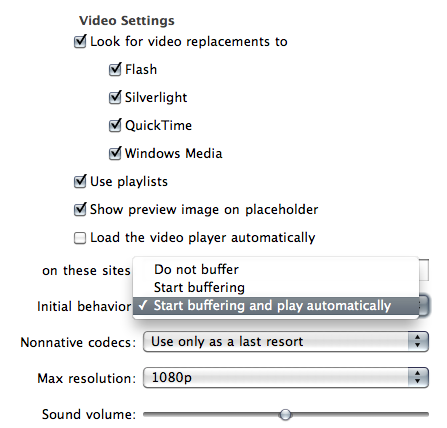
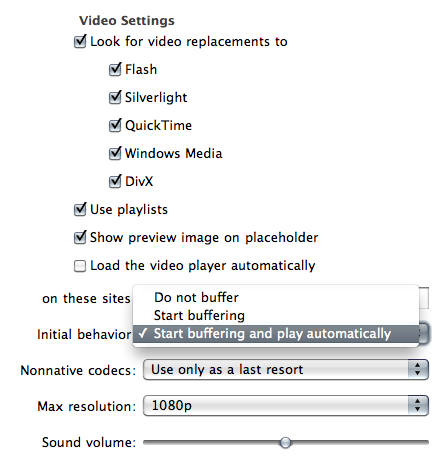
v1.7.6/1.4.6

diff --git a/clicktoplugin/index.html b/clicktoplugin/index.html
@@ -21,25 +21,28 @@
 <div id="download" class="nav">
 <b>Download links</b>
 <ul>
-<li><a href="http://github.com/downloads/hoyois/safariextensions/ClickToPlugin-1.4.5.safariextz">Download ClickToPlugin 1.4.5</a></li>
-<li><a href="http://github.com/downloads/hoyois/safariextensions/ClickToPlugin.fr-1.4.5.safariextz">Télécharger ClickToPlugin 1.4.5 en français</a></li>
+<li><a href="http://github.com/downloads/hoyois/safariextensions/ClickToPlugin-1.4.6.safariextz">Download ClickToPlugin 1.4.6</a></li>
+<li><a href="http://github.com/downloads/hoyois/safariextensions/ClickToPlugin.fr-1.4.6.safariextz">Télécharger ClickToPlugin 1.4.6 en français</a></li>
 <li><a href="http://github.com/downloads/hoyois/safariextensions/ClickToPlugin.ru-1.4.5.safariextz">Скачать ClickToPlugin 1.4.5 по-русски</a></li>
 </ul>
 </div>
 
-<div class="warning"><p>ClickToPlugin 1.4.5 requires Safari 5.0.1 or newer.</p></div>
+<div class="warning"><p>ClickToPlugin 1.4.6 requires Safari 5.0.1 or newer.</p></div>
 
 <div id="contents" class="nav">
 <b>Jump to</b>
 <ul>
 	<li><a href="#features">Features</a></li>
 	<li><a href="#settings">Settings</a></li>
+	<li><a href="#faq_issues">FAQ &amp; Common Issues</a></li>
 	<li><a href="#changelog">Release Notes</a></li>
 </ul>
 </div>
 
 <div id="intro">
-<p>This is an extension of my ClickToFlash extension that can deal with all types of embedded content. Feel free to <a href="mailto:marc%20dot%20hoyois%20@t%20gmail%20dot%20com?subject=%5BCTP%5D%20Your%20extension%20rocks,%20but...">request features</a> and please <a href="mailto:marc%20dot%20hoyois%20@t%20gmail%20dot%20com?subject=%5BCTP%5D%20This%20piece%20of%20garbage%20doesn%27t%20work%21">report bugs</a>.</p>
+<p>This is an extension of my ClickToFlash extension that can deal with all types of embedded content.</p>
+
+<p>Feel free to <a href="mailto:marc%20dot%20hoyois%20@t%20gmail%20dot%20com?subject=%5BCTP%5D%20Your%20extension%20rocks,%20but...">request features</a> and please <a href="mailto:marc%20dot%20hoyois%20@t%20gmail%20dot%20com?subject=%5BCTP%5D%20This%20piece%20of%20garbage%20doesn%27t%20work%21">report bugs</a>. <b>However, please read the <a href="#faq_issues">FAQ &amp; Common Issues</a> section carefully before sending me an email.</b></p>
 
 <p>To unpack the source to the current directory, run <code>xar -f /path/to/ClickToPlugin.safariextz -x</code>. You can also <a href="http://github.com/hoyois/clicktoflash/tree/click-to-plugin">browse the latest source</a> on GitHub.</p>
 </div>
@@ -89,6 +92,7 @@
 <li><b>YouTube videos.</b> Both on-site and embedded videos. All YouTube videos have H.264-encoded MP4-contained sources. Resolutions in this format are Medium (&#x2264;360p, always available), 720p, 1080p, and 4K.</li>
 <li><b>Vimeo videos.</b> Both on-site and embedded videos. All Vimeo videos have H.264-encoded sources, and most of them are in MP4 containers. A few are FLV files that Safari cannot play natively. Resolutions are 360p and 720p.</li>
 <li><b> Dailymotion videos.</b> Both on-site and embedded videos (not including external videos available on Dailymotion's website). All Dailymotion videos available in 'high quality' have H.264-encoded MP4-contained sources. Resolution are &#x2264;480p and 720p.</li>
+<li>Videos played in the <a href="http://www.longtailvideo.com/">JW Player</a>, if they are playable by QuickTime.</li>
 <li>Objects with <code>&lt;video&gt;</code> fallback content.</li>
 <li>Objects handled by the QuickTime web plugin. At this time, HTML5 videos in Safari do not seem to allow streaming, and ClickToPlugin is not able to detect streaming videos that are wrapped in a <code>.mov</code> container. For those videos, Safari's video player will never get past the 'Loading...' stage, but you can select 'Reload in QuickTime' from the contextual menu to access the stream.</li>
 </ul>
@@ -100,6 +104,7 @@
 	<li><b>Veoh videos.</b> (requires Perian) Both on-site and embedded videos (not including external videos available on Veoh's website). I was not able to find any video on Veoh with resolution higher than 360p. Contact me if you know any.</li>
 	<li>Videos played in the <a href="http://slvideoplayer.codeplex.com/">Silverlight Video Player</a>. (requires Flip4Mac)</li>
 	<li>Directly embedded Windows Media videos. (requires Flip4Mac)</li>
+	<li>Directly embedded DivX videos. (requires Perian)</li>
 </ul>
 
 <p><b>Note.</b> Playback of nonnative codecs in Safari uses much more CPU than native playback. Moreover, if autoplay is enabled, Safari usually starts playing the video too early for smooth playback. For these reasons the feature can be disabled completely. In my casual testing, playback of 480p YouTube videos using Perian uses on average half as much CPU as YouTube's Flash player, while playback of Windows Media videos using Flip4Mac uses on average 60% as much CPU as the Silverlight Video Player.</p>
@@ -132,7 +137,7 @@
 </figure>
 
 <p><b>Block all MIME types</b><br />
-To block all embedded content. An exception is made for natively supported MIME types, such as common image types, PDF documents, and SVG drawings.</p>
+To block all embedded content. An exception is made for natively supported MIME types, such as common image types, PDF documents, and SVG documents.</p>
 
 <p>MIME types are strings of the form '<em>type</em>/<em>subtype</em>[;<em>parameters</em>]' specifying the nature of the embedded content. Common <em>type</em>s are:</p>
 <ul>
@@ -144,7 +149,7 @@ To block all embedded content. An exception is made for natively supported MIME 
 
 <p>Here is a useful list of more specific matches:</p>
 <ul>
-<li><b>flash, futuresplash</b> matches all content handled by the Flash plugin;</li>
+<li><b>flash futuresplash</b> matches all content handled by the Flash plugin;</li>
 <li><b>silverlight</b> matches all content handled by the Silverlight plugin;</li>
 <li><b>java</b> matches all content handled by Java plugins;</li>
 <li><b>x-ms</b> matches Windows Media content;</li>
@@ -199,15 +204,13 @@ Sets the initial volume of videos created by ClickToPlugin. Videos on the active
 </figure>
 
 <p><b>Location matches</b><br />
-Matches embedded content on pages whose URL contains one of these strings.</p>
+Matches Flash content in documents whose URL contains one of these strings.</p>
 
 <p><b>Source matches</b><br />
-Matches embedded content whose source URL contains one of these strings.</p>
-
-<p><b>Note.</b> If a string is enclosed in parenthesis, it will be interpreted as a regular expression.</p>
+Matches Flash content whose source URL contains one of these strings.</p>
 
 <p><b>Size matches</b><br />
-Small Flash elements, also called 'invisible Flash', make it difficult for the user to locate and click their placeholders. Because they are not meant to be seen, such objects usually have important behind-the-scene functions, and not allowing them to load may cripple the functionality of some pages. A common effect of invisible Flash is the message <em>Please install Flash player</em> being displayed instead of the expected Flash content: this happens because an invisible Flash element whose function is to replace this message by the Flash content failed to load. In such cases, allowing invisible elements (or adding their source to the whitelist) is required to even have the possibility to access the main content. The size of these control elements is usually 1x1 px, but some websites are known to use control elements up to 8x8 px in size.</p>
+Matches the offset size of an element.</p>
 
 <h3 id="menus">Contextual menu items</h3>
 
@@ -240,8 +243,76 @@ sIFR is a pre-CSS3 technology for displaying advanced typography on the web. It 
 <p><b>Opacity</b><br />
 This slider controls the opacity of the placeholder elements, from invisible to opaque.</p>
 
+<p><b>Block content manually</b><br />
+If ticked, a pop-up box asks the user for confirmation before blocking any element. This box displays the following information about the element: its type (Flash, Silverlight, etc.), its location, its source, its position within its document, and its size. Further, an option 'Show Element' is added to the contextual menu of placeholder elements; selecting it shows the location and source of the blocked element, as well as the blocked element itself. This is useful for getting information about invisible elements or the location of elements within iframes.</p>
+
+<h2 id="faq_issues">FAQ &amp; Common Issues</h2>
+
+<h3 id="faq">FAQ</h3>
+
+<p><b>Q. Can I use this extension together with the ClickToFlash plugin?</b><br />
+<b>A.</b> No, unless you want to have to click twice to unlock every element.</p>
+
+<p><b>Q. Why would I want to allow all elements below a given size?</b><br />
+<b>A.</b> You don't. For security and privacy reasons, automatically allowing elements on random pages is not recommended. Also, elements can be small at first but later grow to become full-fledged ads.<br />
+The reason why some people will still use this setting despite my recommendation is the following.
+Very small elements, also called 'invisible' elements, are not meant to be seen and thus often have important functions. Some web pages will be crippled when they are blocked, and obviously it is difficult to locate them and load them manually. For example, a common effect of invisible Flash is the message <em>Please install Flash player</em> being displayed instead of expected Flash content: this happens because an invisible Flash element whose function is to replace this message by the Flash object failed to load. The size of these control elements is usually 1x1 px, but some websites are known to use invisible elements up to 8x8 px in size.<br />
+That said, you should only use this setting to quickly check if an issue on a trusted page is caused by an invisible element. If it resolves the issue, turns the setting back off and use the 'Block content manually' setting to find out the source of the culprit, and match it with the source whitelist.</p>
+
+<p><b>Q. Can I use regular expressions in whitelists?</b><br />
+<b>A.</b> Yes! All whitelist-like text fields in the settings support regular expressions. For a string to be considered as a regular expression, it must be enclosed in parentheses. These regular expressions must follow the Javascript syntax (in particular, lookbehinds are not supported). Invalid regular expressions are ignored.</p>
+
+<h3 id="issues">Common issues</h3>
+
+<h4>Google Street View not working</h4>
+
+<p>For Google Street View to work, add <code>maps.gstatic.com</code> to the source whitelist.</p>
+
+<h4>Content still being blocked after whitelisting a page</h4>
+
+<p>This happens because the blocked elements are within iframes. Iframes allow a single tab to contain several documents, each with its own location, and the URL displayed in Safari's toolbar is the location of the main document only. The location whitelist considers the location of an element to be that of its document. To find out the real location of an element, tick the 'Block content manually' checkbox in the settings, right-click on the element's placeholder, and select 'Show Element'.</p>
+
+<h4 id="list_invisible">List of invisible elements</h4>
+
+<p>Many issues are caused by blocked invisible elements. Here is a table of known invisible elements which must be allowed to access some functionality on the page:</p>
+
+<table>
+<thead>
+<tr>
+    <td>Domains</td>
+    <td>Function of invisible element</td>
+    <td>Size</td>
+    <td>Source</td>
+</tr>
+</thead>
+<tbody>
+<tr>
+    <td>prostopleer.com &amp; others</td>
+    <td>Required by SoundManager2, a common sound API</td>
+    <td>8x8</td>
+    <td>soundmanager2_flash9.swf</td>
+</tr>
+<tr>
+    <td>www.bbc.co.uk</td>
+    <td>Loads video players on some news pages</td>
+    <td>1x1</td>
+    <td>emp_proxy.swf</td>
+</tr>
+<tr>
+    <td>www.hulu.com</td>
+    <td>Loads the main video player</td>
+    <td>1x1</td>
+    <td>http://www.hulu.com/loadplayer.swf</td>
+</tr>
+</tbody>
+</table>
 
 <h2 id="changelog">Release Notes</h2>
+
+<p id="v1.4.6"><b>Version 1.4.6</b> (September 16, 2010)</p>
+<ul>
+    <li>Based on <a href="../clicktoflash/#v1.7.6">ClickToFlash 1.7.6</a></li>
+</ul>
 
 <p id="v1.4.5"><b>Version 1.4.5</b> (September 10, 2010)</p>
 <ul>
@@ -329,7 +400,7 @@ This slider controls the opacity of the placeholder elements, from invisible to 
 </ul>
 
 <footer>
-<p id="footer_left">Updated on September 10, 2010</p>
+<p id="footer_left">Updated on September 16, 2010</p>
 <p id="footer_right"><a href="#top">To the top</a></p>
 </footer>
 

diff --git a/clicktoflash/index.html b/clicktoflash/index.html
@@ -21,25 +21,28 @@
 <div id="download" class="nav">
 <b>Download links</b>
 <ul>
-<li><a href="http://github.com/downloads/hoyois/safariextensions/ClickToFlash-1.7.5.safariextz">Download ClickToFlash 1.7.5</a></li>
-<li><a href="http://github.com/downloads/hoyois/safariextensions/ClickToFlash.fr-1.7.5.safariextz">Télécharger ClickToFlash 1.7.5 en français</a></li>
+<li><a href="http://github.com/downloads/hoyois/safariextensions/ClickToFlash-1.7.6.safariextz">Download ClickToFlash 1.7.6</a></li>
+<li><a href="http://github.com/downloads/hoyois/safariextensions/ClickToFlash.fr-1.7.6.safariextz">Télécharger ClickToFlash 1.7.6 en français</a></li>
 <li><a href="http://github.com/downloads/hoyois/safariextensions/ClickToFlash.ru-1.7.5.safariextz">Скачать ClickToFlash 1.7.5 по-русски</a></li>
 </ul>
 </div>
 
-<div class="warning"><p>ClickToFlash 1.7.5 requires Safari 5.0.1 or newer.</p></div>
+<div class="warning"><p>ClickToFlash 1.7.6 requires Safari 5.0.1 or newer.</p></div>
 
 <div id="contents" class="nav">
 <b>Jump to</b>
 <ul>
 	<li><a href="#features">Features</a></li>
 	<li><a href="#settings">Settings</a></li>
+	<li><a href="#faq_issues">FAQ &amp; Common Issues</a></li>
 	<li><a href="#changelog">Release Notes</a></li>
 </ul>
 </div>
 
 <div id="intro">
-<p>This is my attempt at turning the <a href="http://clicktoflash.com/">ClickToFlash web plugin</a> into a Safari extension. It has all the functionality of the plugin and then some, except the automatic downloading of videos which Safari extensions do not allow. Feel free to <a href="mailto:marc%20dot%20hoyois%20@t%20gmail%20dot%20com?subject=%5BCTF%5D%20Your%20extension%20rocks,%20but...">request features</a> and please <a href="mailto:marc%20dot%20hoyois%20@t%20gmail%20dot%20com?subject=%5BCTF%5D%20This%20piece%20of%20garbage%20doesn%27t%20work%21">report bugs</a>.</p>
+<p>This is my attempt at turning the <a href="http://clicktoflash.com/">ClickToFlash web plugin</a> into a Safari extension. It has all the functionality of the plugin and then some, except the automatic downloading of videos which Safari extensions do not allow.</p>
+
+<p>Feel free to <a href="mailto:marc%20dot%20hoyois%20@t%20gmail%20dot%20com?subject=%5BCTF%5D%20Your%20extension%20rocks,%20but...">request features</a> and please <a href="mailto:marc%20dot%20hoyois%20@t%20gmail%20dot%20com?subject=%5BCTF%5D%20This%20piece%20of%20garbage%20doesn%27t%20work%21">report bugs</a>. <b>However, please read the <a href="#faq_issues">FAQ &amp; Common Issues</a> section carefully before sending me an email.</b></p>
 
 <p>To unpack the source to the current directory, run <code>xar -f /path/to/ClickToFlash.safariextz -x</code>. You can also <a href="http://github.com/hoyois/clicktoflash/tree/safari-5-extension">browse the latest source</a> on GitHub.</p>
 </div>
@@ -53,7 +56,11 @@
 </ul>
 <p>I also learned Javascript through those three extensions, so <b>thanks a lot guys!</b></p>
 
-
+<!--<p>Further, thanks should be given to</p>
+<ul>
+    <li>Yuli Cherkashin (Юлий Черкашин) for the Russian localization,</li>
+    <li></li>
+</ul>-->
 
 <h2 id="features">Features</h2>
 <h3 id="features_blocking">Blocking Flash</h3>
@@ -85,6 +92,7 @@
 <li><b>YouTube videos.</b> Both on-site and embedded videos. All YouTube videos have H.264-encoded MP4-contained sources. Resolutions in this format are Medium (&#x2264;360p, always available), 720p, 1080p, and 4K.</li>
 <li><b>Vimeo videos.</b> Both on-site and embedded videos. All Vimeo videos have H.264-encoded sources, and most of them are in MP4 containers. A few are FLV files that Safari cannot play natively. Resolutions are 360p and 720p.</li>
 <li><b> Dailymotion videos.</b> Both on-site and embedded videos (not including external videos available on Dailymotion's website). All Dailymotion videos available in 'high quality' have H.264-encoded MP4-contained sources. Resolution are &#x2264;480p and 720p.</li>
+<li>Videos played in the <a href="http://www.longtailvideo.com/">JW Player</a>, if they are playable by QuickTime.</li>
 <li>Flash objects with <code>&lt;video&gt;</code> fallback content.</li>
 </ul>
 
@@ -159,17 +167,13 @@ Sets the initial volume of videos created by ClickToFlash. Videos on the active 
 </figure>
 
 <p><b>Location matches</b><br />
-Matches Flash content on pages whose URL contains one of these strings.</p>
+Matches Flash content in documents whose URL contains one of these strings.</p>
 
 <p><b>Source matches</b><br />
 Matches Flash content whose source URL contains one of these strings.</p>
 
-<p>If a string is enclosed in parenthesis, it will be interpreted as a regular expression.</p>
-
-<p><b>Note.</b> </p>
-
 <p><b>Size matches</b><br />
-Small Flash elements, also called 'invisible Flash', make it difficult for the user to locate and click their placeholders. Because they are not meant to be seen, such objects usually have important behind-the-scene functions, and not allowing them to load may cripple the functionality of some pages. A common effect of invisible Flash is the message <em>Please install Flash player</em> being displayed instead of the expected Flash content: this happens because an invisible Flash element whose function is to replace this message by the Flash content failed to load. In such cases, allowing invisible elements (or adding their source to the whitelist) is required to even have the possibility to access the main content. The size of these control elements is usually 1x1 px, but some websites are known to use control elements up to 8x8 px in size.</p>
+Matches the offset size of an element.</p>
 
 <h3 id="menus">Contextual menu items</h3>
 
@@ -202,7 +206,80 @@ sIFR is a pre-CSS3 technology for displaying advanced typography on the web. It 
 <p><b>Opacity</b><br />
 This slider controls the opacity of the placeholder elements, from invisible to opaque.</p>
 
+<p><b>Block content manually</b><br />
+If ticked, a pop-up box asks the user for confirmation before blocking any element. This box displays the following information about the element: its location, its source, its position within its document, and its size. Further, an option 'Show Element' is added to the contextual menu of placeholder elements; selecting it shows the location and source of the blocked element, as well as the blocked element itself. This is useful for getting information about invisible elements or the location of elements within iframes.</p>
+
+<h2 id="faq_issues">FAQ &amp; Common Issues</h2>
+
+<h3 id="faq">FAQ</h3>
+
+<p><b>Q. Can I use this extension together with the ClickToFlash plugin?</b><br />
+<b>A.</b> No, unless you want to have to click twice to unlock every element.</p>
+
+<p><b>Q. Why would I want to allow all elements below a given size?</b><br />
+<b>A.</b> You don't. For security and privacy reasons, automatically allowing elements on random pages is not recommended. Also, elements can be small at first but later grow to become full-fledged ads.<br />
+The reason why some people will still use this setting despite my recommendation is the following.
+Very small elements, also called 'invisible' elements, are not meant to be seen and thus often have important functions. Some web pages will be crippled when they are blocked, and obviously it is difficult to locate them and load them manually. For example, a common effect of invisible Flash is the message <em>Please install Flash player</em> being displayed instead of expected Flash content: this happens because an invisible Flash element whose function is to replace this message by the Flash object failed to load. The size of these control elements is usually 1x1 px, but some websites are known to use invisible elements up to 8x8 px in size.<br />
+That said, you should only use this setting to quickly check if an issue on a trusted page is caused by an invisible element. If it resolves the issue, turns the setting back off and use the 'Block content manually' setting to find out the source of the culprit, and match it with the source whitelist.</p>
+
+<p><b>Q. Can I use regular expressions in whitelists?</b><br />
+<b>A.</b> Yes! All whitelist-like text fields in the settings support regular expressions. For a string to be considered as a regular expression, it must be enclosed in parentheses. These regular expressions must follow the Javascript syntax (in particular, lookbehinds are not supported). Invalid regular expressions are ignored.</p>
+
+<h3 id="issues">Common issues</h3>
+
+<h4>Google Street View not working</h4>
+
+<p>For Google Street View to work, add <code>maps.gstatic.com</code> to the source whitelist.</p>
+
+<h4>Content still being blocked after whitelisting a page</h4>
+
+<p>This happens because the blocked elements are within iframes. Iframes allow a single tab to contain several documents, each with its own location, and the URL displayed in Safari's toolbar is the location of the main document only. The location whitelist considers the location of an element to be that of its document. To find out the real location of an element, tick the 'Block content manually' checkbox in the settings, right-click on the element's placeholder, and select 'Show Element'.</p>
+
+<h4 id="list_invisible">List of invisible elements</h4>
+
+<p>Many issues are caused by blocked invisible elements. Here is a table of known invisible elements which must be allowed to access some functionality on the page:</p>
+
+<table>
+<thead>
+<tr>
+    <td>Domains</td>
+    <td>Function of invisible element</td>
+    <td>Size</td>
+    <td>Source</td>
+</tr>
+</thead>
+<tbody>
+<tr>
+    <td>prostopleer.com &amp; others</td>
+    <td>Required by SoundManager2, a common sound API</td>
+    <td>8x8</td>
+    <td>soundmanager2_flash9.swf</td>
+</tr>
+<tr>
+    <td>www.bbc.co.uk</td>
+    <td>Loads video players on some news pages</td>
+    <td>1x1</td>
+    <td>emp_proxy.swf</td>
+</tr>
+<tr>
+    <td>www.hulu.com</td>
+    <td>Loads the main video player</td>
+    <td>1x1</td>
+    <td>http://www.hulu.com/loadplayer.swf</td>
+</tr>
+</tbody>
+</table>
+
 <h2 id="changelog">Release Notes</h2>
+
+<p id="v1.7.6"><b>Version 1.7.6</b> (September 16, 2010)</p>
+<ul>
+    <li><b>Whitelists now use spaces as separators (they are automatically updated)</b></li>
+    <li>More successful video replacements for generic Flash players</li>
+    <li>Does not replace streaming YouTube videos by nonfunctional video elements anymore</li>
+    <li>Improved performance and correctness of whitelist parsing</li>
+    <li>Fixed Flash not being loadable on some websites that use placeholders for their Flash objects and listen to click events from parent elements</li>
+</ul>
 
 <p id="v1.7.5"><b>Version 1.7.5</b> (September 10, 2010)</p>
 <ul>
@@ -339,7 +416,7 @@ This slider controls the opacity of the placeholder elements, from invisible to 
 </ul>
 
 <footer>
-<p id="footer_left">Updated on September 10, 2010</p>
+<p id="footer_left">Updated on September 16, 2010</p>
 <p id="footer_right"><a href="#top">To the top</a></p>
 </footer>
 

diff --git a/styles.css b/styles.css
@@ -52,6 +52,24 @@ figcaption {
 	display: block;
 }
 
+table {
+    margin: 10px;
+    border-collapse: collapse;
+}
+
+thead {
+    border-bottom: 1px solid black;
+    font-weight: bold;
+}
+
+tbody {
+    border-bottom: 1px solid black;
+}
+
+td {
+    padding: 5px 10px;
+}
+
 footer {
 	border-top: 1px solid #000;
 	font-size: 80%;
